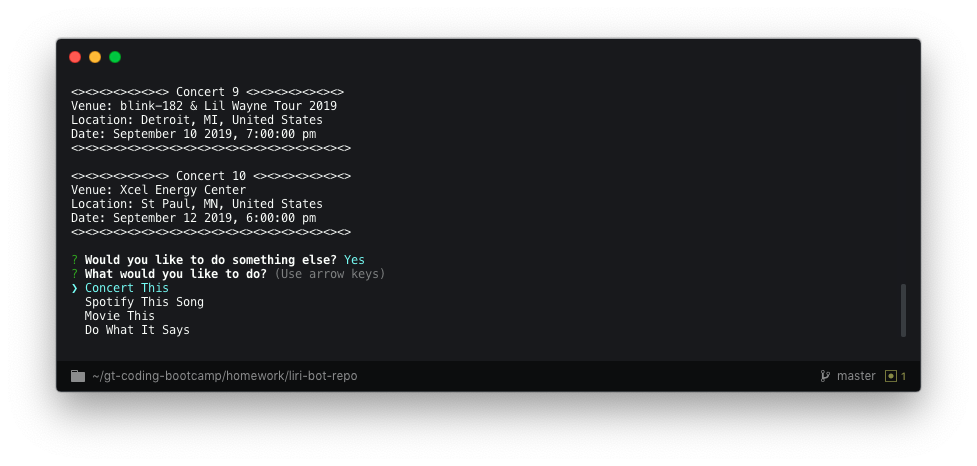
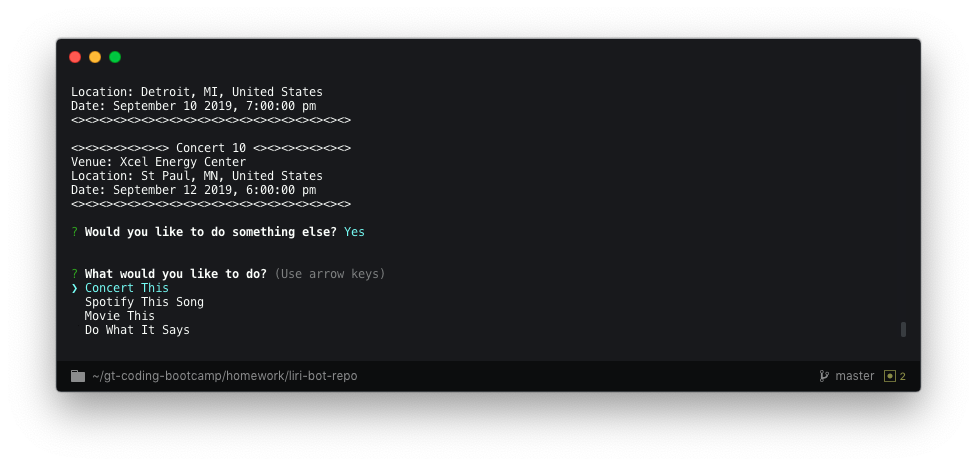
Added screenshots of methods in LIRI Bot; updated markdown

diff --git a/liri.js b/liri.js
@@ -112,6 +112,7 @@ function somethingElse(text)
         // Invokes the pickTask function if the user wishes to perform another task
         if(response.choice == true)
         {
+            console.log("\n");
             pickTask();
         }
 

diff --git a/README.md b/README.md
@@ -9,18 +9,21 @@ This is Taylor Johnson's Homework 8: LIRI Bot for the Georgia Tech Coding Boot C
 
 1. loginUser()
     ![alt text](md_images/login.png "User Log In Prompt")
-    ![alt text](md_images/login2.png "User Log In with Name")
-
 2. pickTask()
-
+    ![alt text](md_images/login2.png "Pick Task")
 3. somethingElse()
-
+    ![alt text](md_images/something_else.png "User Selects to Complete Another Task")
+    ![alt text](md_images/something_else2.png "User Dismisses LIRI Bot")
 4. concertThis()
-
+    ![alt text](md_images/concert_this1.png "Concert This Prompt")
+    ![alt text](md_images/concert_this2.png"Concert This User Entry")
 5. spotifyThis()
-
+    ![alt text](md_images/spotify_this1.png "Spotify This Song Prompt")
+    ![alt text](md_images/spotify_this2.png"Spotify This User Entry")
 6. concertThis()
-
+    ![alt text](md_images/movie_this1.png "Movie This Prompt")
+    ![alt text](md_images/movie_this2.png"Movie This User Entry")
 7. doIt()
-
+    ![alt text](md_images/do_it1.png "Do What It Says Prompt")
+    ![alt text](md_images/do_it2.png"Do What It Says User Entry")
 
